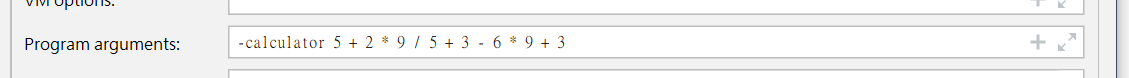
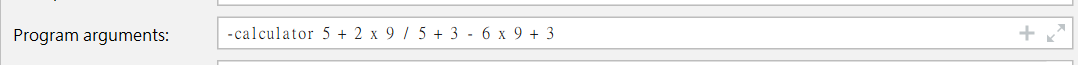
don't use "*" to multiply

diff --git a/src/RunCalculator.java b/src/RunCalculator.java
@@ -5,6 +5,8 @@ public class RunCalculator {
 
     RunCalculator(ArrayList<String> arguments) {
         Argumentslist = arguments;
+        for(String s : Argumentslist){
+        }
     }
 
     public String Run() {
@@ -14,7 +16,8 @@ public class RunCalculator {
         /*Do Multiply and Divide first Then Add and Subtract*/
         for (int i = 0; i < Argumentslist.size(); i++) {
             switch (Argumentslist.get(i)) {
-                case "*": {
+                case "X":
+                case "x": {
                     double value1 = Double.valueOf(Argumentslist.get(i - 1));
                     double value2 = Double.valueOf(Argumentslist.get(i + 1));
                     Argumentslist.set(i, String.valueOf(BasicMathLibrary.MultiplyDouble(value1, value2)));
